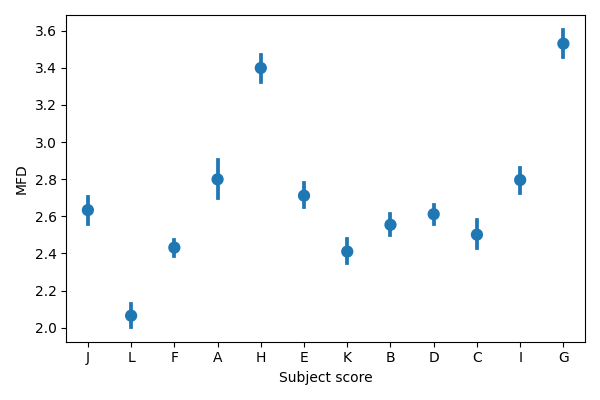
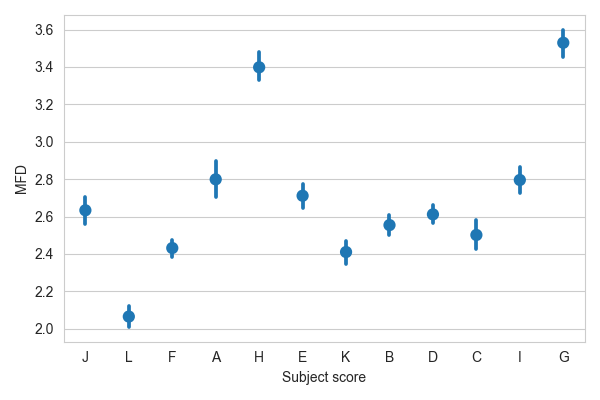
plot adjustments

diff --git a/analysis/gaze/blink_rates.py b/analysis/gaze/blink_rates.py
@@ -162,6 +162,7 @@ def kstest_blink_rate_distance_street_river():
 
 
 def plot_blink_rate_over_score():
+    sns.set_style('whitegrid')
     blink_rates = pd.read_csv('../data/blink_rates.csv')
     scores = pd.read_csv('../data/level_scores.csv')
     df = blink_rates.merge(scores, on=['subject_id', 'game_difficulty', 'world_number'], how='left')
@@ -211,7 +212,7 @@ def plot_blink_rate_over_score():
     plt.plot(xx, res.intercept + res.slope * xx, 'r', label='Linear regression')
     # plt.fill_between(xx, bounds_min, bounds_max, color='r', alpha=0.25, label='95% ci interval')
     plt.xlim(xlim)
-    plt.xlabel('Score')
+    plt.xlabel('Subject score')
     plt.ylabel('Blink rate [$s^{-1}$]')
     plt.legend()
     plt.tight_layout()
@@ -287,7 +288,7 @@ def plot_blink_rate_over_level_score():
 
 
 if __name__ == '__main__':
-    plot_blink_rates_fancy()
+    # plot_blink_rates_fancy()
     # save_blink_rates()
     plot_blink_rate_over_score()
     plot_blink_rate_over_level_score()

diff --git a/analysis/gaze/fixations.py b/analysis/gaze/fixations.py
@@ -277,6 +277,7 @@ def plot_fixation_heatmap():
     ax.set_ylabel('y')
 
     plt.tight_layout()
+    plt.show()
     plt.savefig('../thesis/1descriptive/3gaze/fixations_heatmap.png')
     plt.show()
 
@@ -532,6 +533,7 @@ def kstest_fixation_distance_street_river():
 
 
 def plot_mfd_per_score():
+    sns.set_style('whitegrid')
     df = load_fixations()
 
     order_df = df[['subject_id', 'score']].drop_duplicates().sort_values('score')
@@ -1078,12 +1080,13 @@ def print_n_fixations_per_region():
 
 
 if __name__ == '__main__':
+    plot_mfd_per_score()
+    plot_mfd_heatmap()
+
     plot_fixation_KDE_relative_to_player()
     print_n_fixations_per_region()
     plot_fixation_heatmap()
     plot_fixations_on_target_per_lane()
-    # save_fixations()
-    #
     # plot_avg_fixation_distance_per_subject()
     #
     # plot_fixations_kde()

diff --git a/analysis/pupil_size/pupil_size.py b/analysis/pupil_size/pupil_size.py
@@ -290,8 +290,8 @@ def plot_pupil_size_over_score():
     plt.plot(xx, res.intercept + res.slope * xx, 'r', label='Linear regression')
     # plt.fill_between(xx, bounds_min, bounds_max, color='r', alpha=0.25, label='95% ci interval')
     plt.xlim(xlim)
-    plt.xlabel('subject score')
-    plt.ylabel('normalized pupil size')
+    plt.xlabel('Subject score')
+    plt.ylabel('Normalized pupil size')
     plt.legend()
     plt.tight_layout()
     plt.savefig('./imgs/pupil_size/pupil_size_over_score_w_lin_reg.png')
@@ -300,9 +300,9 @@ def plot_pupil_size_over_score():
 
 
 if __name__ == '__main__':
+    plot_pupil_size_over_score()
     ttest_pupil_size_street_river()
     kstest_pupil_size_street_river()
     plot_pupil_size()
-    plot_pupil_size_over_score()
     plot_pupil_size_per_region()
     plot_pupil_size_for_each_game()
